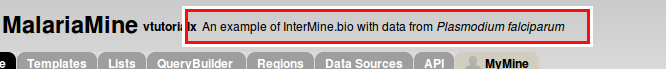
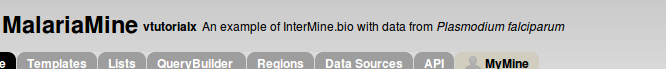
remove outline, edit for clarity

Changed region(s): [[0.2703, 0.087, 0.9009, 0.6957]]

diff --git a/docs/get-started/tutorial/webapp.rst b/docs/get-started/tutorial/webapp.rst
@@ -18,9 +18,9 @@ This tutorial is intended to give a general idea of what you can customise in In
 Tomcat
 ---------
 
-You should have Tomcat running from the previous tutorial.
+If you do not have Tomcat running, please refer to the previous tutorial on how to do this.
 
-If your webapp is under heavy usage, it's not unlikely that you will run out of memory. See :doc:`/system-requirements/software/tomcat` for details on how to update your settings to adjust the amount of memory available to Tomcat. 
+If your webapp is under heavy usage, Tomcat may run out of memory. See :doc:`/system-requirements/software/tomcat` for details on how to update your settings to adjust the amount of memory available to Tomcat. 
 
 .. note::
 
@@ -31,12 +31,15 @@ If your webapp is under heavy usage, it's not unlikely that you will run out of 
 General Layout
 ---------------------
 
-Let's start by updating the home page. Each web page in InterMine has a header and footer. The header contains everything at the top of the page, including the navigation tabs and the keyword search. The footer contains the contact form and InterMine logo.
+Each web page in InterMine has the same header and footer. The header contains everything at the top of the page, including the navigation tabs and the keyword search. The footer contains the contact form and InterMine logo.
 
 .. figure:: ../../imgs/header-footer.png
    :align:   center
 
    Header and footer of FlyMine website
+
+
+Let's start configuring our mine by updating these common sections of our web application.
 
 Header
 ~~~~~~~
@@ -52,16 +55,13 @@ First, let's update the logo of your site. The logo should be 45x43 and named `l
    FlyMine's logo
 
 1. Copy your image into this directory: `MINE_NAME/webapp/resources/webapp/model/images`. (If you don't have a logo for your mine yet, you can still test updating your mine by using the FlyMine logo above.)
-
-
-
-3. Deploy your webapp with this command:
+2. Deploy your webapp with this command:
 
 .. code-block:: bash
 
 	ant default remove-webapp release-webapp
 
-4. Refresh your browser
+3. Refresh your browser
 
 .. figure:: ../../imgs/new-logo.png
    :align:   center
